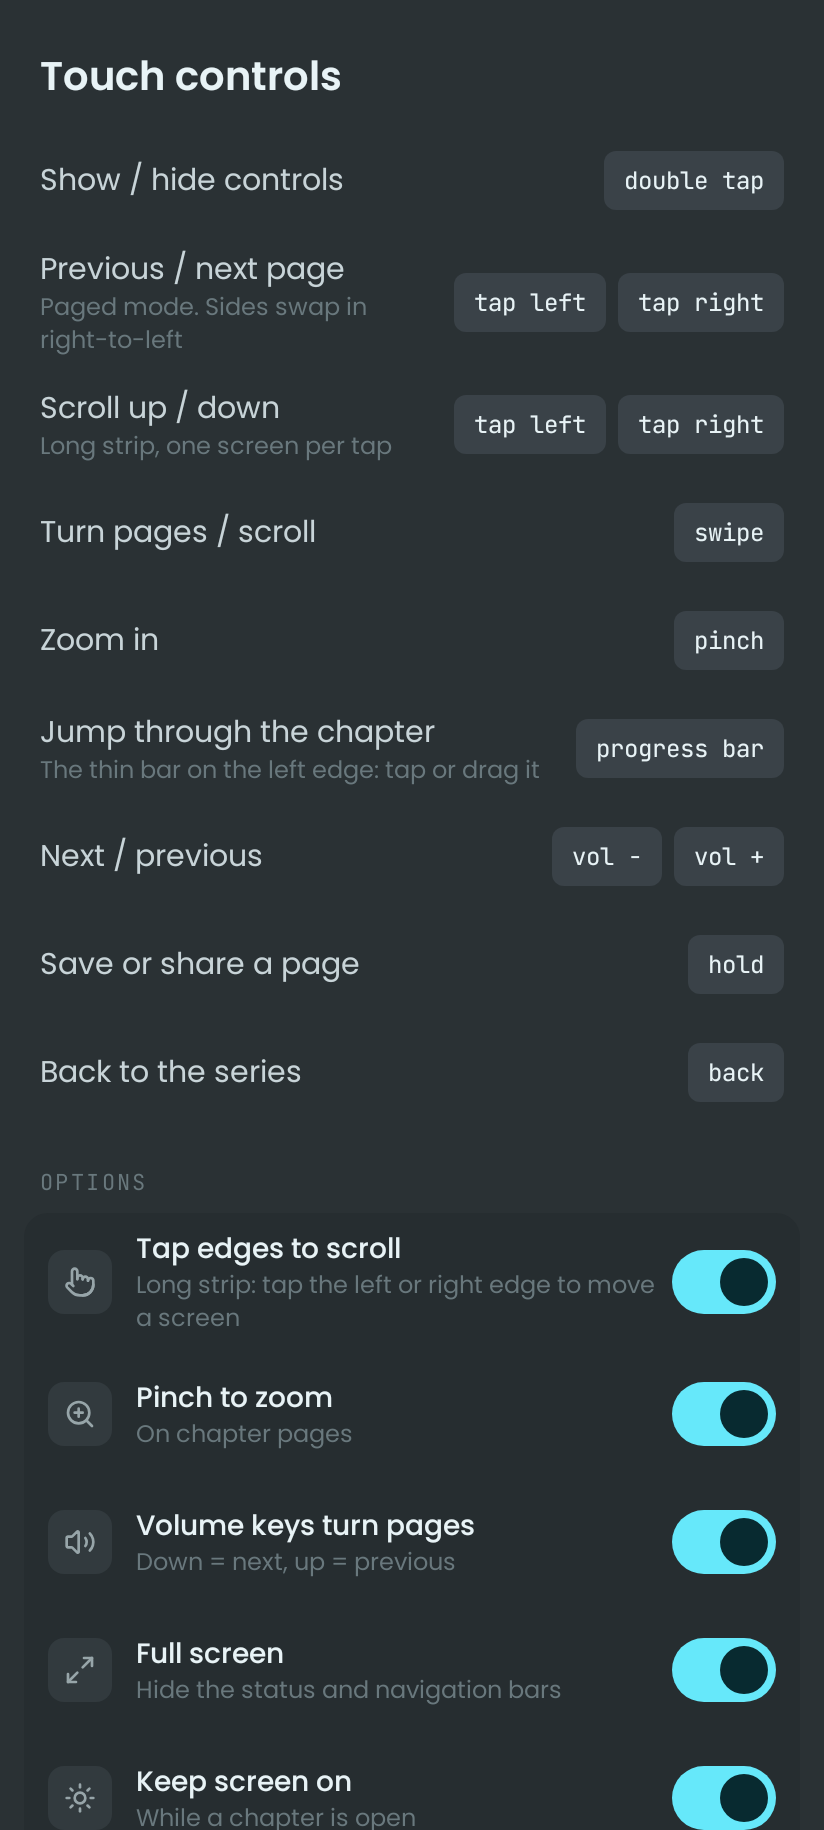
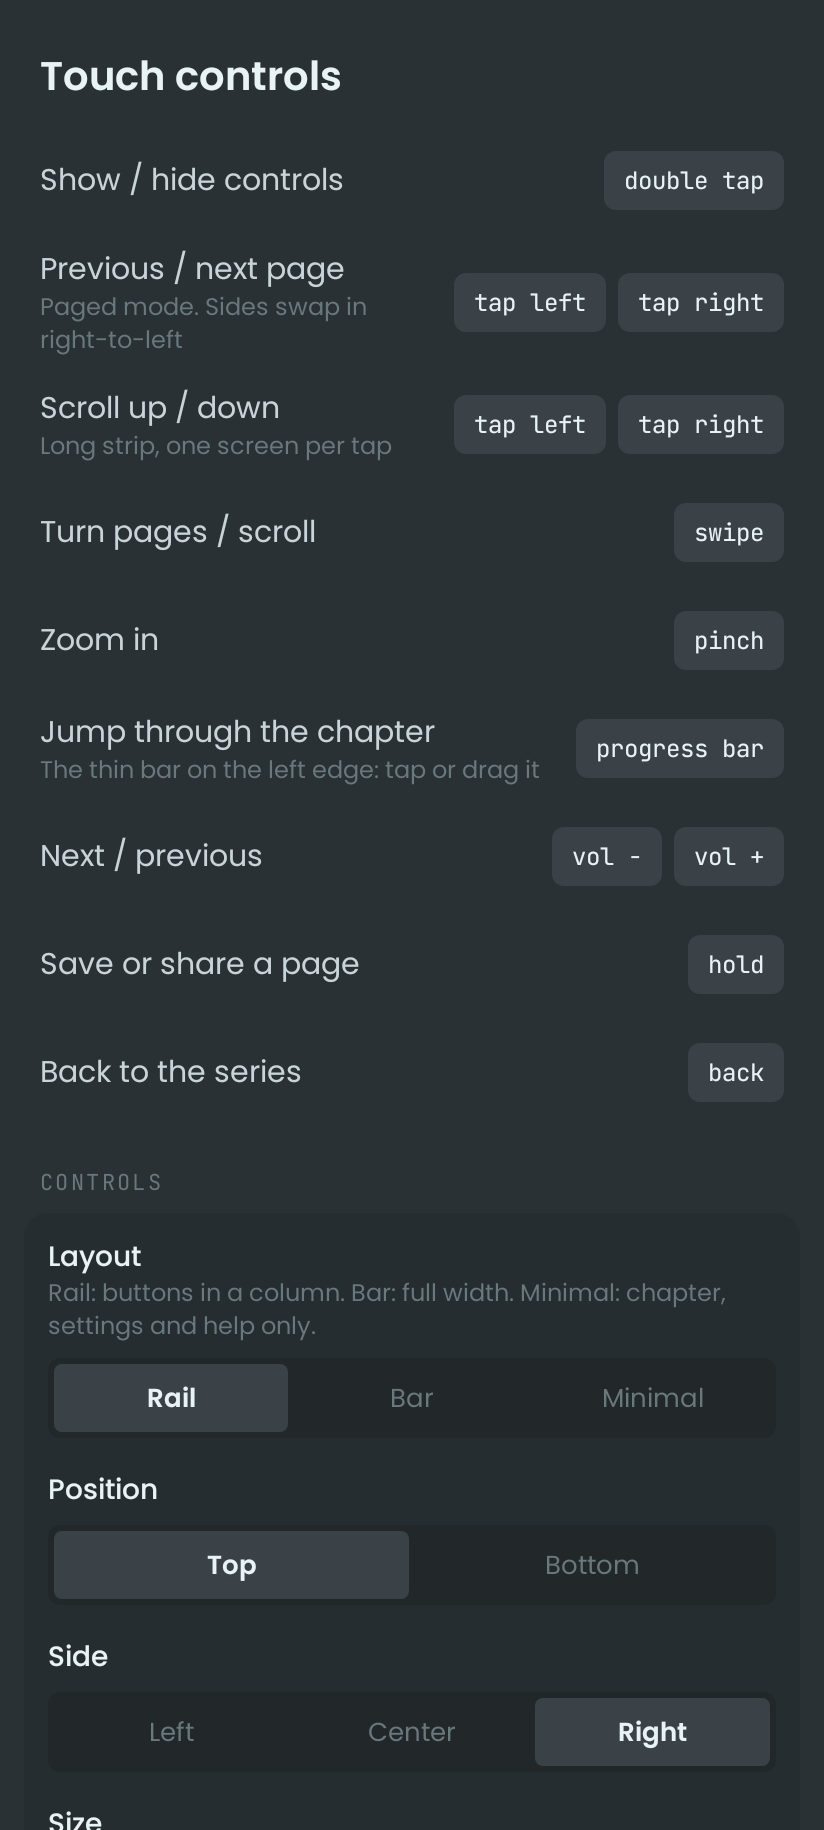
Add layout, position and size options for reader controls (#13)
The reader's floating controls (chapter switcher and button column,
docked top right by the site) can now be laid out as a rail (the
site's), a full-width bar, or a minimal pill with only the chapter
switcher, settings and help; placed top or bottom and left, center or
right; and shown at normal or large size. Options apply instantly from
the reader's touch-controls sheet or More > Reader controls, are cached
in the page so controls don't jump on load, and keep clear of the
site's progress bar when it shares an edge.

Claude-Session: https://claude.ai/code/session_01YbVGRshvC6VnHUc4fnRiLA

diff --git a/app/src/main/java/com/notsonata/comixium/ui/ReaderControlsSettings.kt b/app/src/main/java/com/notsonata/comixium/ui/ReaderControlsSettings.kt
@@ -1,0 +1,88 @@
+package com.notsonata.comixium.ui
+
+import androidx.compose.foundation.background
+import androidx.compose.foundation.clickable
+import androidx.compose.foundation.layout.Arrangement
+import androidx.compose.foundation.layout.Box
+import androidx.compose.foundation.layout.Column
+import androidx.compose.foundation.layout.Row
+import androidx.compose.foundation.layout.Spacer
+import androidx.compose.foundation.layout.fillMaxWidth
+import androidx.compose.foundation.layout.height
+import androidx.compose.foundation.layout.padding
+import androidx.compose.foundation.shape.RoundedCornerShape
+import androidx.compose.material3.Text
+import androidx.compose.runtime.Composable
+import androidx.compose.ui.Alignment
+import androidx.compose.ui.Modifier
+import androidx.compose.ui.draw.alpha
+import androidx.compose.ui.draw.clip
+import androidx.compose.ui.text.TextStyle
+import androidx.compose.ui.text.font.FontWeight
+import androidx.compose.ui.unit.dp
+import androidx.compose.ui.unit.sp
+import com.notsonata.comixium.ui.theme.LocalComixColors
+import com.notsonata.comixium.ui.theme.Poppins
+import com.notsonata.comixium.web.ReaderPrefs
+
+/** Layout, position and size of the reader's floating controls. [onChanged] pushes them to the open chapter. */
+@Composable
+fun ReaderControlsSettings(reader: ReaderPrefs, onChanged: () -> Unit) {
+    Column(Modifier.padding(vertical = 4.dp)) {
+        Choice(
+            "Layout", "Rail: buttons in a column. Bar: full width. Minimal: chapter, settings and help only.",
+            listOf("rail" to "Rail", "bar" to "Bar", "minimal" to "Minimal"), reader.controlsLayout,
+        ) { reader.updateControlsLayout(it); onChanged() }
+        Choice("Position", null, listOf("top" to "Top", "bottom" to "Bottom"), reader.controlsY) {
+            reader.updateControlsY(it); onChanged()
+        }
+        Choice(
+            "Side", if (reader.controlsLayout == "bar") "The bar always spans the full width" else null,
+            listOf("left" to "Left", "center" to "Center", "right" to "Right"), reader.controlsX,
+            enabled = reader.controlsLayout != "bar",
+        ) { reader.updateControlsX(it); onChanged() }
+        Choice("Size", null, listOf("normal" to "Normal", "large" to "Large"), reader.controlsSize) {
+            reader.updateControlsSize(it); onChanged()
+        }
+    }
+}
+
+@Composable
+private fun Choice(
+    label: String,
+    note: String?,
+    options: List<Pair<String, String>>,
+    selected: String,
+    enabled: Boolean = true,
+    onSelect: (String) -> Unit,
+) {
+    val c = LocalComixColors.current
+    Column(Modifier.fillMaxWidth().padding(horizontal = 12.dp, vertical = 8.dp).alpha(if (enabled) 1f else 0.45f)) {
+        Text(label, style = TextStyle(fontFamily = Poppins, fontSize = 14.sp, fontWeight = FontWeight.Medium), color = c.textEmphasis)
+        if (note != null) Text(note, style = TextStyle(fontFamily = Poppins, fontSize = 12.sp), color = c.text3)
+        Spacer(Modifier.height(8.dp))
+        Row(
+            Modifier.fillMaxWidth().clip(RoundedCornerShape(6.dp)).background(c.bg).padding(3.dp),
+            horizontalArrangement = Arrangement.spacedBy(3.dp),
+        ) {
+            options.forEach { (value, text) ->
+                val on = value == selected
+                Box(
+                    Modifier
+                        .weight(1f)
+                        .clip(RoundedCornerShape(4.dp))
+                        .background(if (on) c.surface3 else c.bg)
+                        .clickable(enabled = enabled && !on) { onSelect(value) }
+                        .padding(vertical = 8.dp),
+                    contentAlignment = Alignment.Center,
+                ) {
+                    Text(
+                        text,
+                        style = TextStyle(fontFamily = Poppins, fontSize = 13.sp, fontWeight = if (on) FontWeight.SemiBold else FontWeight.Normal),
+                        color = if (on) c.textEmphasis else c.text3,
+                    )
+                }
+            }
+        }
+    }
+}

diff --git a/app/src/main/assets/inject/comixium.css b/app/src/main/assets/inject/comixium.css
@@ -57,6 +57,66 @@ a[href*="utm_source=comix"] {
   display: none !important;
 }
 
+/* --- Reader controls: layout, position and size ------------------------------------------ */
+/* Chosen in the app and set on <html> by the page script. No attribute = the site's own design
+   (rail of buttons under the chapter switcher, top right, normal size). */
+
+/* Position */
+html[data-cx-x="left"] .rpage-floatctl {
+  right: auto !important;
+  left: 12px !important;
+  align-items: flex-start !important;
+}
+html[data-cx-x="center"] .rpage-floatctl {
+  right: auto !important;
+  left: 50% !important;
+  transform: translateX(-50%);
+  align-items: center !important;
+}
+html[data-cx-y="bottom"] .rpage-floatctl {
+  top: auto !important;
+  bottom: 12px !important;
+  flex-direction: column-reverse !important;
+}
+
+/* Keep clear of the site's progress bar when it sits on the same edge (it is 1.5rem thick). */
+html[data-cx-x="left"] .rpage:has(.rpage-progress--left) .rpage-floatctl { left: calc(1.5rem + 12px) !important; }
+html[data-cx-y="bottom"] .rpage:has(.rpage-progress--bottom) .rpage-floatctl { bottom: calc(1.5rem + 12px) !important; }
+
+/* Layout: bar = full-width chapter switcher with a row of buttons */
+html[data-cx-layout="bar"] .rpage-floatctl {
+  left: 8px !important;
+  right: 8px !important;
+  transform: none;
+  align-items: stretch !important;
+}
+html[data-cx-layout="bar"] .rpage:has(.rpage-progress--left) .rpage-floatctl { left: calc(1.5rem + 8px) !important; }
+html[data-cx-layout="bar"] .rpage:has(.rpage-progress--right) .rpage-floatctl { right: calc(1.5rem + 8px) !important; }
+html[data-cx-layout="bar"] .rpage-floatctl__row { display: flex !important; }
+html[data-cx-layout="bar"] .rpage-floatctl__chap { flex: 1; justify-content: center; }
+html[data-cx-layout="bar"] .rpage-floatctl__col {
+  display: flex !important;
+  flex-direction: row !important;
+  justify-content: space-around;
+}
+
+/* Layout: minimal = chapter switcher plus settings and help, in one row */
+html[data-cx-layout="minimal"] .rpage-floatctl { flex-direction: row !important; align-items: stretch !important; }
+html[data-cx-layout="minimal"] .rpage-floatctl__col {
+  flex-direction: row !important;
+  align-items: center;
+  padding: 0 2px !important;
+}
+html[data-cx-layout="minimal"] .rpage-floatctl__col > :not([aria-label="Settings"]):not([aria-label="Help"]) {
+  display: none !important;
+}
+
+/* Size: large touch targets */
+html[data-cx-size="large"] .rpage-floatctl__btn { width: 44px !important; height: 44px !important; }
+html[data-cx-size="large"] .rpage-floatctl__btn svg { width: 22px; height: 22px; }
+html[data-cx-size="large"] .rpage-floatctl__row { height: 44px !important; }
+html[data-cx-size="large"] .rpage-floatctl__chap { font-size: var(--text-base) !important; padding: 0 14px !important; }
+
 /* No blue tap flash; the site already styles :active states. */
 * {
   -webkit-tap-highlight-color: transparent;

diff --git a/app/src/main/java/com/notsonata/comixium/web/ReaderPrefs.kt b/app/src/main/java/com/notsonata/comixium/web/ReaderPrefs.kt
@@ -22,11 +22,28 @@ class ReaderPrefs(private val prefs: SharedPreferences) {
     fun updateImmersive(on: Boolean) { immersive = on; prefs.edit { putBoolean(KEY_IMMERSIVE, on) } }
     fun updateVolumeKeys(on: Boolean) { volumeKeys = on; prefs.edit { putBoolean(KEY_VOLUME, on) } }
     fun updateKeepScreenOn(on: Boolean) { keepScreenOn = on; prefs.edit { putBoolean(KEY_SCREEN_ON, on) } }
+    /** Reader controls: rail | bar | minimal; position x left|center|right, y top|bottom; size normal|large. */
+    var controlsLayout by mutableStateOf(prefs.getString(KEY_LAYOUT, "rail") ?: "rail")
+        private set
+    var controlsX by mutableStateOf(prefs.getString(KEY_X, "right") ?: "right")
+        private set
+    var controlsY by mutableStateOf(prefs.getString(KEY_Y, "top") ?: "top")
+        private set
+    var controlsSize by mutableStateOf(prefs.getString(KEY_SIZE, "normal") ?: "normal")
+        private set
+
+    fun updateControlsLayout(v: String) { controlsLayout = v; prefs.edit { putString(KEY_LAYOUT, v) } }
+    fun updateControlsX(v: String) { controlsX = v; prefs.edit { putString(KEY_X, v) } }
+    fun updateControlsY(v: String) { controlsY = v; prefs.edit { putString(KEY_Y, v) } }
+    fun updateControlsSize(v: String) { controlsSize = v; prefs.edit { putString(KEY_SIZE, v) } }
+
     fun updateTapEdges(on: Boolean) { tapEdges = on; prefs.edit { putBoolean(KEY_TAP_EDGES, on) } }
     fun updatePinchZoom(on: Boolean) { pinchZoom = on; prefs.edit { putBoolean(KEY_PINCH_ZOOM, on) } }
 
     /** The options the page script applies itself (see setPrefs in comixium.js). */
-    fun pageScriptCall(): String = "window.__comixium && window.__comixium.setPrefs({tapEdges:$tapEdges,pinchZoom:$pinchZoom})"
+    fun pageScriptCall(): String =
+        "window.__comixium && window.__comixium.setPrefs({tapEdges:$tapEdges,pinchZoom:$pinchZoom," +
+            "layout:'$controlsLayout',x:'$controlsX',y:'$controlsY',size:'$controlsSize'})"
 
     private companion object {
         const val KEY_IMMERSIVE = "reader_immersive"
@@ -34,5 +51,9 @@ class ReaderPrefs(private val prefs: SharedPreferences) {
         const val KEY_SCREEN_ON = "reader_keep_screen_on"
         const val KEY_TAP_EDGES = "reader_tap_edges"
         const val KEY_PINCH_ZOOM = "reader_pinch_zoom"
+        const val KEY_LAYOUT = "reader_controls_layout"
+        const val KEY_X = "reader_controls_x"
+        const val KEY_Y = "reader_controls_y"
+        const val KEY_SIZE = "reader_controls_size"
     }
 }

diff --git a/app/src/main/assets/inject/comixium.js b/app/src/main/assets/inject/comixium.js
@@ -105,7 +105,28 @@
   // The site's reader already toggles its controls on a double tap and turns pages on edge taps in
   // paged mode. On top of that: edge taps scroll a long strip, pinch zoom works on chapter pages,
   // and its keyboard-shortcut help is replaced by the app's touch-controls sheet.
-  var prefs = { tapEdges: true, pinchZoom: true };
+  var prefs = { tapEdges: true, pinchZoom: true, layout: 'rail', x: 'right', y: 'top', size: 'normal' };
+  var DEFAULTS = { layout: 'rail', x: 'right', y: 'top', size: 'normal' };
+  var PREFS_KEY = 'comixium.reader';
+  try { var saved = JSON.parse(localStorage.getItem(PREFS_KEY) || 'null'); if (saved) setPrefsFrom(saved); } catch (e) { /* none */ }
+
+  function setPrefsFrom(p) {
+    for (var k in p) {
+      if (!Object.prototype.hasOwnProperty.call(prefs, k)) continue;
+      prefs[k] = typeof prefs[k] === 'boolean' ? !!p[k] : String(p[k]);
+    }
+  }
+
+  // Reader controls layout/position/size live on <html> as data-cx-* attributes (see comixium.css).
+  function applyControls() {
+    var root = document.documentElement;
+    if (!root) return;
+    [['layout', 'data-cx-layout'], ['x', 'data-cx-x'], ['y', 'data-cx-y'], ['size', 'data-cx-size']].forEach(function (a) {
+      var v = prefs[a[0]];
+      if (v === DEFAULTS[a[0]]) { if (root.hasAttribute(a[1])) root.removeAttribute(a[1]); }
+      else if (root.getAttribute(a[1]) !== v) root.setAttribute(a[1], v);
+    });
+  }
 
   function isReader() {
     return !!(document.body && document.body.classList.contains('rpage-body'));
@@ -246,6 +267,7 @@
     var root = document.documentElement, body = document.body;
     if (root && root !== watchedRoot) {
       watchedRoot = root;
+      applyControls();
       attrObserver.observe(root, { attributes: true, attributeFilter: ['data-theme', 'data-tone', 'style'] });
       addStyle();
     }
@@ -316,8 +338,10 @@
     },
     readerStep: readerStep,
     setPrefs: function (p) {
-      for (var k in p) if (Object.prototype.hasOwnProperty.call(prefs, k)) prefs[k] = !!p[k];
+      setPrefsFrom(p);
+      try { localStorage.setItem(PREFS_KEY, JSON.stringify(prefs)); } catch (e) { /* private mode */ }
       applyZoom();
+      applyControls();
       return true;
     },
     scrollByPage: function (dir) {

diff --git a/app/src/test/java/com/notsonata/comixium/ui/ChromeScreenshotTest.kt b/app/src/test/java/com/notsonata/comixium/ui/ChromeScreenshotTest.kt
@@ -138,6 +138,13 @@ class ChromeScreenshotTest {
         }
     }
 
+    @Test fun readerControlsSettings() = shot("reader_controls_settings") {
+        val prefs = readerPrefs().apply { updateControlsLayout("bar"); updateControlsY("bottom"); updateControlsSize("large") }
+        Box(Modifier.fillMaxSize().background(ComixColors().bg2).padding(top = 24.dp)) {
+            ReaderControlsSettings(prefs, onChanged = {})
+        }
+    }
+
     @Test fun search() {
         val prefs = ApplicationProvider.getApplicationContext<Context>().getSharedPreferences("t", Context.MODE_PRIVATE)
         val recent = RecentSearches(prefs).apply { add("solo leveling"); add("return of the blossoming blade"); add("villainess") }

diff --git a/app/src/main/java/com/notsonata/comixium/ui/ReaderHelpSheet.kt b/app/src/main/java/com/notsonata/comixium/ui/ReaderHelpSheet.kt
@@ -66,6 +66,11 @@ fun TouchControls(reader: ReaderPrefs, onChanged: () -> Unit, modifier: Modifier
         Gesture("Save or share a page", "hold")
         Gesture("Back to the series", "back")
 
+        SectionLabel("CONTROLS", Modifier.padding(start = 20.dp, top = 20.dp, bottom = 8.dp))
+        Column(Modifier.padding(horizontal = 12.dp).clip(RoundedCornerShape(12.dp)).background(c.bg2)) {
+            ReaderControlsSettings(reader, onChanged)
+        }
+
         SectionLabel("OPTIONS", Modifier.padding(start = 20.dp, top = 20.dp, bottom = 8.dp))
         Column(Modifier.padding(horizontal = 12.dp).clip(RoundedCornerShape(12.dp)).background(c.bg2)) {
             ToggleRow(

diff --git a/app/src/main/java/com/notsonata/comixium/ui/MoreScreen.kt b/app/src/main/java/com/notsonata/comixium/ui/MoreScreen.kt
@@ -115,6 +115,9 @@ fun MoreScreen(
                 checked = reader.pinchZoom, onChange = reader::updatePinchZoom,
             )
         }
+        Section("READER CONTROLS") {
+            ReaderControlsSettings(reader, onChanged = {})
+        }
         Section("SETTINGS") {
             Row(Lucide.Palette, "Theme & content filter", subtitle = "The site's own settings", onClick = onSiteSettings)
             ToggleRow(

diff --git a/README.md b/README.md
@@ -16,7 +16,7 @@ and built-in ad blocking.
 | Search | Native field with recent searches; results open in the Browse tab (`/browse?q=`). |
 | More | Account pages, the site's Browse menu shortcuts, the site's theme/content settings, ad blocking toggle, domain switch, cache. |
 | Library / History | Show a native log-in prompt when you're logged out (the site redirects those pages). |
-| Reader | Chapter pages go full screen (bars hidden, swipe to peek) and keep the screen on. Touch controls: double tap the middle to show/hide the reader controls, tap the edges to turn pages (paged) or scroll a screen (long strip), pinch to zoom, volume keys to step through the chapter. The reader's help button opens a "Touch controls" sheet with all of this and its toggles. |
+| Reader | Chapter pages go full screen (bars hidden, swipe to peek) and keep the screen on. Touch controls: double tap the middle to show/hide the reader controls, tap the edges to turn pages (paged) or scroll a screen (long strip), pinch to zoom, volume keys to step through the chapter. The reader's help button opens a "Touch controls" sheet with all of this and its toggles. The reader's floating controls can be laid out as a rail, a full-width bar or a minimal pill, placed top/bottom and left/center/right, in normal or large size. |
 | Sharing & files | Share button on series pages; long-press any image to save (Pictures/Comixium), share or copy its link; file pickers and downloads (including the site's in-memory backup export) work. |
 | Links | comix.ws / comix.to links from other apps can open in Comixium (pick it in the "Open with" chooser). |
 | Theme | Native colours follow whatever theme you pick in the site's settings (Main, Dark, Light, Custom). |

diff --git a/CHANGELOG.md b/CHANGELOG.md
@@ -10,6 +10,14 @@ Navigation:
 - Back leaves the reader in one step instead of going through every chapter read
 - Back gesture shows a preview animation on Android 14+
 
+Reader controls:
+
+- Layout options: rail, bar or minimal
+- Position options: top or bottom, left, center or right
+- Large size option for bigger touch targets
+- Controls stay clear of the progress bar
+- Set from the reader's help button or More → Reader controls
+
 ## 1.1.0
 
 New look:
